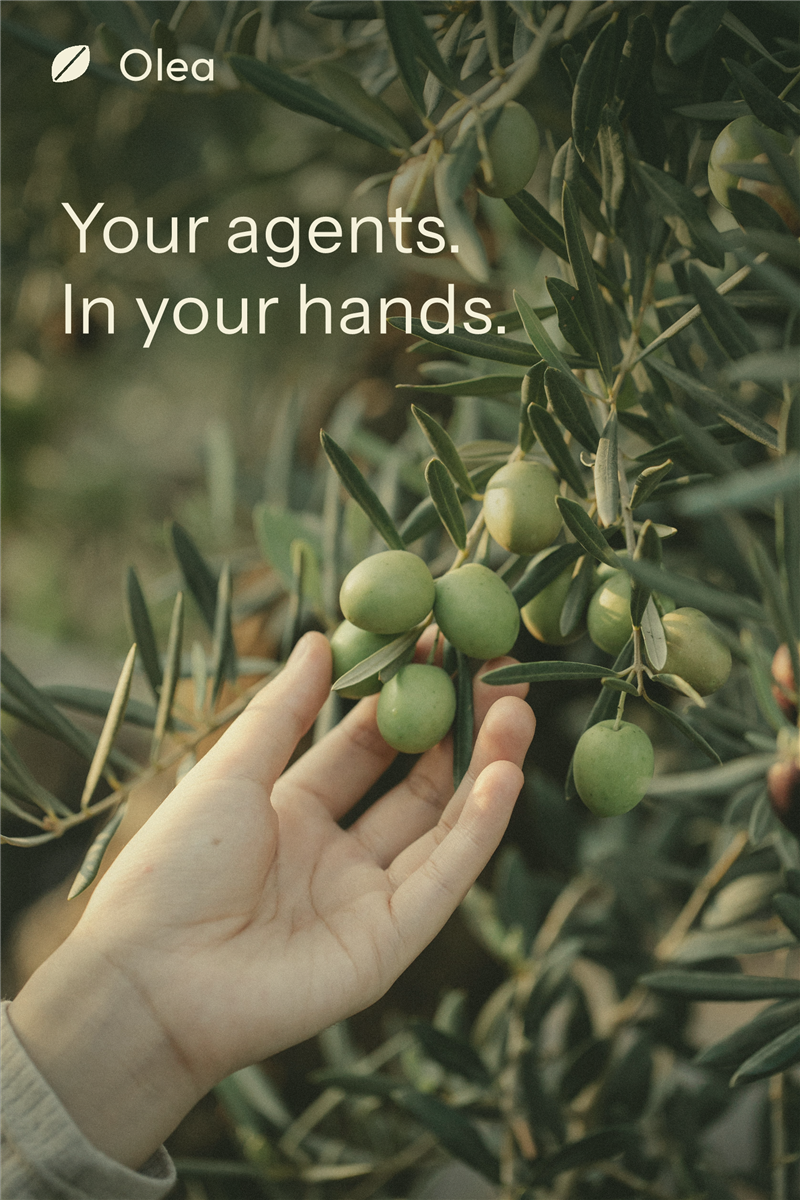
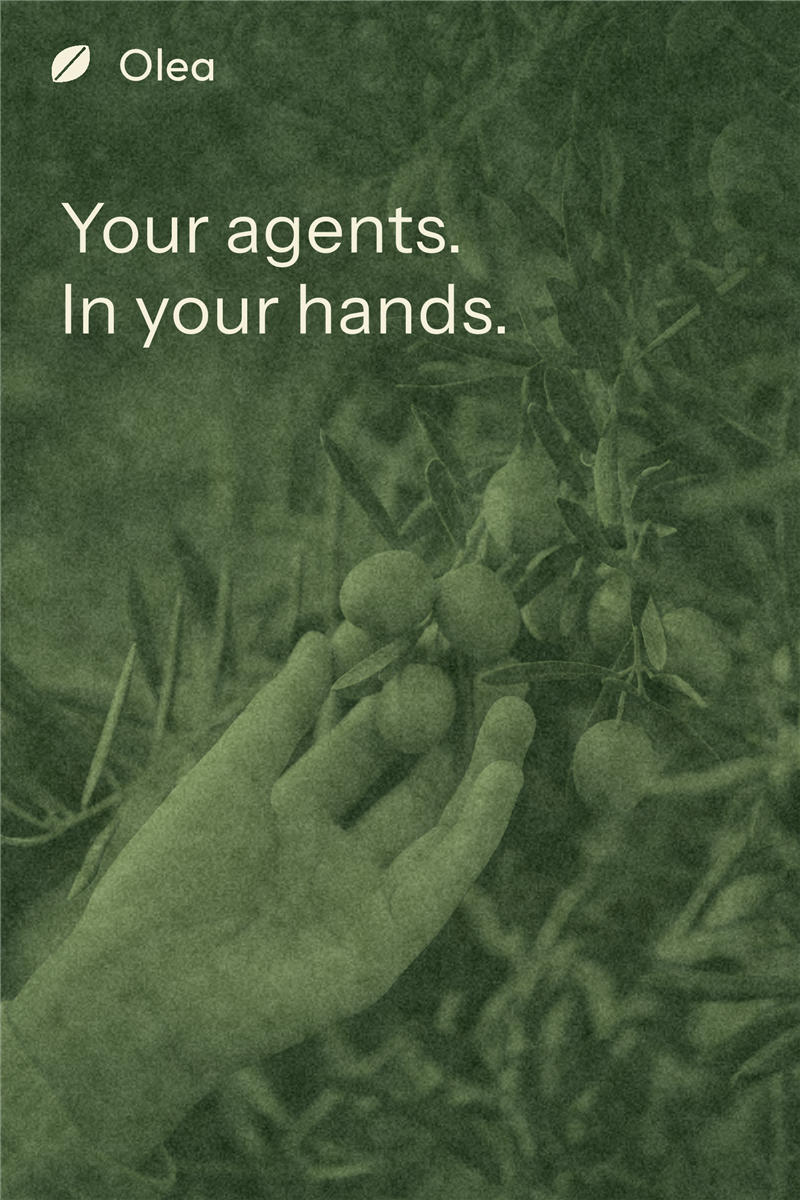
Give photo poster Seed-green paper texture

diff --git a/docs/ui/branding/render-photo-poster-03.md b/docs/ui/branding/render-photo-poster-03.md
@@ -21,6 +21,21 @@ using System.Drawing.Imaging;
 using System.Runtime.InteropServices;
 public static class OleaPhotoGrade03 {
   static byte Clamp(double n) { return (byte)Math.Max(0, Math.Min(255, Math.Round(n))); }
+  static double[,] Field(int w,int h,int scale,Random rng,double strength) {
+    double[,] field=new double[h/scale+2,w/scale+2];
+    for(int y=0;y<field.GetLength(0);y++)
+      for(int x=0;x<field.GetLength(1);x++)
+        field[y,x]=(rng.NextDouble()+rng.NextDouble()+rng.NextDouble()-1.5)*strength;
+    return field;
+  }
+  static double Sample(double[,] field,int x,int y,int scale) {
+    int gx=x/scale, gy=y/scale;
+    double fx=(x%scale)/(double)scale, fy=(y%scale)/(double)scale;
+    fx=fx*fx*(3-2*fx); fy=fy*fy*(3-2*fy);
+    double a=field[gy,gx]*(1-fx)+field[gy,gx+1]*fx;
+    double b=field[gy+1,gx]*(1-fx)+field[gy+1,gx+1]*fx;
+    return a*(1-fy)+b*fy;
+  }
   public static void Apply(Bitmap bitmap) {
     BitmapData data = bitmap.LockBits(new Rectangle(0,0,bitmap.Width,bitmap.Height), ImageLockMode.ReadWrite, PixelFormat.Format24bppRgb);
     try {
@@ -28,6 +43,10 @@ public static class OleaPhotoGrade03 {
       if(stride<=0) throw new InvalidOperationException("Positive bitmap stride required.");
       byte[] bytes=new byte[stride*h]; Marshal.Copy(data.Scan0,bytes,0,bytes.Length);
       Random rng=new Random(6231906);
+      // Paper has diffuse tooth and uneven density at several physical scales.
+      double[,] tooth=Field(w,h,4,rng,16);
+      double[,] paper=Field(w,h,28,rng,8);
+      double[,] clouds=Field(w,h,150,rng,3.5);
       for(int y=0;y<h;y++) {
         double v=(double)y/(h-1);
         // Deep olive veil behind the upper-left copy, tapering smoothly below it.
@@ -37,16 +56,17 @@ public static class OleaPhotoGrade03 {
           int i=y*stride+x*3;
           double b=bytes[i], g=bytes[i+1], r=bytes[i+2];
           double l=0.2126*r+0.7152*g+0.0722*b;
-          r=17+0.90*(0.78*r+0.22*l);
-          g=21+0.86*(0.78*g+0.22*l);
-          b=17+0.74*(0.78*b+0.22*l);
+          // Compress the photograph into olive tones, with a permanent Seed-green veil.
+          double tone=Math.Pow(l/255.0,0.90);
+          r=28+145*tone; g=42+150*tone; b=25+104*tone;
           double nx=((double)x/(w-1)-0.5)*2;
           double ny=(v-0.5)*2;
           double vignette=0.065*(nx*nx+ny*ny);
-          double veil=Math.Min(0.70,top+bottom+vignette);
-          r=r*(1-veil)+27*veil; g=g*(1-veil)+38*veil; b=b*(1-veil)+27*veil;
-          // Fine monochrome grain, added before crisp graphic overlays.
-          double grain=(rng.NextDouble()+rng.NextDouble()+rng.NextDouble()-1.5)*10;
+          double veil=Math.Min(0.80,0.32+top+bottom+vignette);
+          r=r*(1-veil)+50*veil; g=g*(1-veil)+71*veil; b=b*(1-veil)+45*veil;
+          // Soft paper texture replaces the sharp, high-contrast film speckle.
+          double grain=Sample(tooth,x,y,4)+Sample(paper,x,y,28)+Sample(clouds,x,y,150)
+            +(rng.NextDouble()+rng.NextDouble()+rng.NextDouble()-1.5)*3.5;
           bytes[i]=Clamp(b+grain); bytes[i+1]=Clamp(g+grain); bytes[i+2]=Clamp(r+grain);
         }
       }
@@ -66,6 +86,18 @@ $photo.Dispose(); $g.Dispose()
 $g=[System.Drawing.Graphics]::FromImage($img)
 $g.SmoothingMode=[System.Drawing.Drawing2D.SmoothingMode]::AntiAlias
 $g.TextRenderingHint=[System.Drawing.Text.TextRenderingHint]::AntiAliasGridFit
+# Faint short fibers sit within the paper layer, beneath the clean typography.
+$fibers=[System.Random]::new(6231907)
+$lightFiber=[System.Drawing.Pen]::new([System.Drawing.Color]::FromArgb(16,221,225,195),[single]0.65)
+$darkFiber=[System.Drawing.Pen]::new([System.Drawing.Color]::FromArgb(13,27,43,24),[single]0.65)
+for($i=0;$i -lt 26000;$i++) {
+  $x=$fibers.NextDouble()*1600; $y=$fibers.NextDouble()*2400
+  $angle=$fibers.NextDouble()*[Math]::PI*2; $length=3+$fibers.NextDouble()*12
+  $dx=[Math]::Cos($angle)*$length; $dy=[Math]::Sin($angle)*$length
+  $pen=$lightFiber; if(($i%2) -eq 0) { $pen=$darkFiber }
+  $g.DrawBezier($pen,[single]$x,[single]$y,[single]($x+$dx*0.3-$dy*0.12),[single]($y+$dy*0.3+$dx*0.12),[single]($x+$dx*0.7),[single]($y+$dy*0.7),[single]($x+$dx),[single]($y+$dy))
+}
+$lightFiber.Dispose(); $darkFiber.Dispose()
 function PhotoText($s,$x,$y,$size,$family) {
   $f=[System.Drawing.Font]::new($family,[single]$size,[System.Drawing.FontStyle]::Regular,[System.Drawing.GraphicsUnit]::Pixel)
   $m=$g.MeasureString($s,$f)

diff --git a/docs/ui/branding/photo-poster-03.md b/docs/ui/branding/photo-poster-03.md
@@ -4,15 +4,17 @@
 
 **USER DECISION:** The preceding four-format promotional series is accepted. Source: “All of them are great.” This new line belongs to this photographic poster; it does not replace the previously selected general slogan.
 
+**USER DECISION:** Move the vintage grade toward the brand's green, strengthen the treatment and grain, and make the photograph less visible. The texture should look like paper. Source: the user's follow-ups, “The vintage color should also be inclined to our green tone” and “The background photo can look more like paper texture”.
+
 ## Visual philosophy
 
 **AGENT PLAN:** Use the photograph's existing gesture as the center of the composition: a hand reaching toward olives. The association with the Seed identity should emerge from the subject and its color. Preserve the hand and fruit rather than obscuring them with a large emblem. Careful placement lets the photograph carry most of the meaning.
 
-Warm, softened highlights and lifted olive shadows give the picture an aged print atmosphere. Reduce saturation gently while preserving the distinction between skin, fruit and foliage. Fine, deterministic monochrome grain adds texture before any typography is drawn. The treatment should reward close viewing without becoming a distressed effect.
+A compressed olive tonal range and a permanent veil in Seed green `#32472D` make the image feel printed into green paper. The hand and fruit remain recognizable, with subdued contrast and greatly reduced natural color. Deterministic texture combines fine paper tooth, softer density variation and faint short fibers before any typography is drawn.
 
 The selected Seed icon and Outfit wordmark form a restrained signature above the headline. Instrument Sans carries the exact two-sentence line in two generous rows, positioned over the upper-left background. Painstaking attention to spacing and local tonal balance keeps the overlay clear while leaving the hand unobstructed.
 
-The composition remains photographic and quiet. A gradual olive veil beneath the lettering controls contrast; a light vignette draws attention inward. Crisp type and original icon geometry contrast with the softened photographic surface. No additional feature claims or simulated product UI are added.
+The composition remains photographic and quiet. A gradual additional olive veil beneath the lettering controls contrast; a light vignette draws attention inward. Crisp type and original icon geometry sit above the matte, textured photographic surface. No additional feature claims or simulated product UI are added.
 
 ## Saved assets
 
